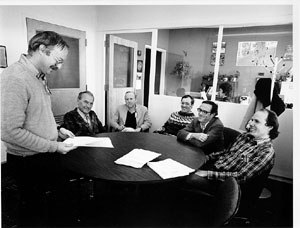
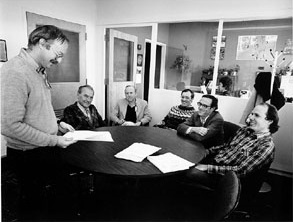
added custom image borders

diff --git a/index.html b/index.html
@@ -99,10 +99,10 @@ tensors,  ugs,  unstructured grids,  wave equations"">
       <h2></h2>
       <div class="card-content">
           <div>
-            <img  class="main-pic" src="images/hyman.jpg"/>
+            <img  class="main-pic custom-border" src="images/hyman.jpg"/>
           </div>
           <div>
-            <img class ="resize-img" src="images/wordcloud.png"></img>
+            <img class="resize-img" src="images/wordcloud.png"></img>
           </div>
       </div>
 
@@ -188,7 +188,7 @@ tensors,  ugs,  unstructured grids,  wave equations"">
     <h2> Publications </h2>
         <div class="card-content">
           <div>
-            <img class="card-image" src="images/microscope.png"/>
+            <img class="card-image spaced" src="images/microscope.png"/>
           </div>
           <div>
             <p>
@@ -215,7 +215,7 @@ tensors,  ugs,  unstructured grids,  wave equations"">
             Mac Hyman is a computational scientist who bridges the gap between mathematical models that describe scientific and engineering problems their approximate solution on the computer. The main thrust of research is to improve the reliability, accuracy and availability of computer approximations. This, in turn, enhances the effectiveness and judgement of scientists and engineers in making design decisions and reduces the amount of expensive laboratory and field testing.
           <br><br>
           <label class="resize-img left-wrapped-label">
-            <img class="resize-img" src="images/chess.jpg"/><br>
+            <img class="resize-img custom-border" src="images/chess.jpg"/><br>
           </label>
 
             He was born in a small town in central Florida the first day of spring 1950 and grew up among the orange groves, phosphate mines and cattle ranches. He was an Eagle scout, has always been an avid camper, photographer, and though no records exist (he never got caught) had a happy adventurous childhood.
@@ -229,7 +229,7 @@ tensors,  ugs,  unstructured grids,  wave equations"">
           <br><br>
 
               <label class="resize-img right-wrapped-label">
-                <img class="resize-img" src="images/macsymplex.jpeg"/><br>
+                <img class="resize-img custom-border" src="images/macsymplex.jpeg"/><br>
                 Mac using a model to visualize a three dimensional mesh in 1983.
               </label>
 
@@ -244,7 +244,7 @@ tensors,  ugs,  unstructured grids,  wave equations"">
           <br><br>
             The code is still widely used in scientific computing laboratories and university departments throughout the world and has been applied to complicated problems in combustion, climate and weather models, economic forecasting, plasma physics, atmospheric and water pollution, and the pattern formation of chicken feathers on an embryo. Currently, he is working with Martin Staley to design and implement a more powerful C++ interactive problem solving environment for solving PDEs.
           <label class="resize-img left-wrapped-label">
-            <img class="resize-img" src="images/t7early.jpeg"/><br>
+            <img class="resize-img  custom-border" src="images/t7early.jpeg"/><br>
             A T-7 group gathering in 1978. Left to Right: Dave McLaughlin,
 Nick Metropolis, Paul Stein, Gian Carlo-Rota, Blair Swartz,
 and Mac (pre-beard).
@@ -399,7 +399,7 @@ and Mac (pre-beard).
         <div>
           <p>
             <label class="resize-img right-wrapped-label">
-              <img class="resize-img" src="images/can-can1.jpg"/><br>
+              <img class="resize-img custom-border" src="images/can-can1.jpg"/><br>
             </label>
             Mac has been dancing through life, occasionally to music and sometimes even on stage.
             He was born and raised in the south, and spent his college years in New Orleans and New York City where he managed to stay alive long enough to escape to New Mexico a quarter century ago.
@@ -411,19 +411,19 @@ and Mac (pre-beard).
           </p>
         </div>
         <div>
-          <img class="card-img resize-img spaced" src="images/can-can2.jpg"/>
+          <img class="card-img resize-img spaced custom-border" src="images/can-can2.jpg"/>
         </div>
         <div>
-          <img class="card-img resize-img spaced" src="images/can-can3.jpg"/>
+          <img class="card-img resize-img spaced custom-border" src="images/can-can3.jpg"/>
         </div>
         <div>
-          <img class="card-img resize-img spaced" src="images/can-can4.jpg"/>
+          <img class="card-img resize-img spaced custom-border" src="images/can-can4.jpg"/>
         </div>
         <div>
-          <img class="card-img resize-img spaced" src="images/can-can5.jpg"/>
+          <img class="card-img resize-img spaced custom-border" src="images/can-can5.jpg"/>
         </div>
         <div>
-          <img class="card-img resize-img spaced" src="images/can-can6.jpg"/>
+          <img class="card-img resize-img spaced custom-border" src="images/can-can6.jpg"/>
         </div>
     </div>
 

diff --git a/css/main.css b/css/main.css
@@ -22,12 +22,13 @@ body {
 
 /* Classes */
 .main-pic{
-  border: 0.5em;
-  border-radius: 5%;
-  border-style: ridge;
-  border-color: rgba(28, 156, 113, 1);
+  /* border: 0.5em; */
+  /* border-radius: 5%; */
+  /* border-style: ridge; */
+  /* border-color: rgba(28, 156, 113, 1); */
   max-width: 85%;
-  background-color: rgba(28, 156, 113, 1)
+  background-color: rgba(28, 156, 113, 1);
+  margin-bottom: 22px;
 }
 .resize-img{
   min-width: 100px;
@@ -134,6 +135,12 @@ body {
   margin: 1em 0em 1em 0em;
 }
 
+/* Image Styling */
+.custom-border{
+  border: 3px ridge darkgrey;
+  box-shadow: 0 4px 8px 0 rgba(0, 0, 0, 0.4), 0 6px 20px 0 rgba(0, 0, 0, 0.38);
+
+}
 
 /*Footer Styling */
 .custom-footer{
